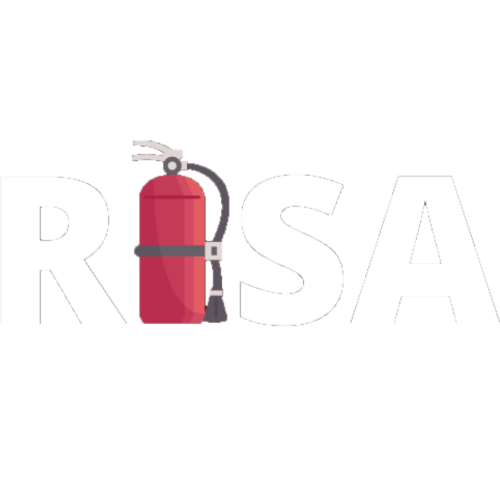
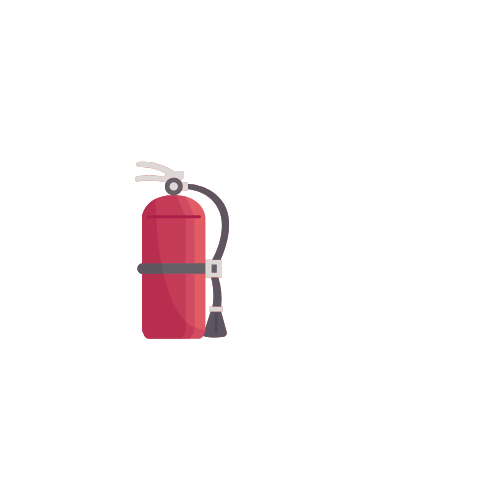
Primeiro Commit

diff --git a/pages/treinamentos.html b/pages/treinamentos.html
@@ -11,6 +11,7 @@
     <title>Treinamentos - Risa Engenharia</title>
 
     
+    <link rel="shortcut icon" href="assets/Risa-favicon.png" type="image/x-icon">
     <link rel="stylesheet" href="../fontawesome/css/all.css" />
     <link rel="stylesheet" href="../css/treinamento.css" />
     <link rel="stylesheet" href="../css/animacoes.css" />
@@ -124,7 +125,7 @@
                     <span></span>
                     <div class="card-header">
                         <picture>
-                            <img class="card-img" src="../assets/RISA.png" alt="header">
+                            <img class="card-img" src="../assets/Kit Emergencia.png" alt="Kit primeiro socorros">
                         </picture>
                     </div>
                     <div class="card-content">
@@ -145,7 +146,7 @@
                     <span></span>
                     <div class="card-header">
                         <picture>
-                            <img class="card-img" src="../assets/RISA.png" alt="header">
+                            <img class="card-img" src="../assets/DEA.png" alt="Desfibrilador externo automático">
                         </picture>
                     </div>
                     <div class="card-content">
@@ -166,7 +167,7 @@
                     <span></span>
                     <div class="card-header">
                         <picture>
-                            <img class="card-img" src="../assets/RISA.png" alt="header">
+                            <img class="card-img" src="../assets/Cipa Segurança.png" alt="Cipa Segurança">
                         </picture>
                     </div>
                     <div class="card-content">
@@ -190,7 +191,7 @@
                     <span></span>
                     <div class="card-header">
                         <picture>
-                            <img class="card-img" src="../assets/RISA.png" alt="header">
+                            <img class="card-img" src="../assets/EPI.png" alt="EPI">
                         </picture>
                     </div>
                     <div class="card-content">
@@ -212,7 +213,7 @@
                     <span></span>
                     <div class="card-header">
                         <picture>
-                            <img class="card-img" src="../assets/RISA.png" alt="header">
+                            <img class="card-img" src="../assets/Segurança em Eletricidade.png" alt="Segurança em Eletricidade">
                         </picture>
                     </div>
                     <div class="card-content">
@@ -234,7 +235,7 @@
                     <span></span>
                     <div class="card-header">
                         <picture>
-                            <img class="card-img" src="../assets/RISA.png" alt="header">
+                            <img class="card-img" src="../assets/Espaços Confinados.png" alt="Espaços Confinados">
                         </picture>
                     </div>
                     <div class="card-content">
@@ -257,7 +258,7 @@
                     <span></span>
                     <div class="card-header">
                         <picture>
-                            <img class="card-img" src="../assets/RISA.png" alt="header">
+                            <img class="card-img" src="../assets/Trabalho em Altura.png" alt="Trabalho em altura">
                         </picture>
                     </div>
                     <div class="card-content">

diff --git a/index.html b/index.html
@@ -10,6 +10,7 @@
     <meta name="robots" content="index, nofollow" />
     <title>Risa Engenharia</title>
 
+    <link rel="shortcut icon" href="assets/Risa-favicon.png" type="image/x-icon">
     <link rel="stylesheet" href="css/style.css" />
     <link rel="stylesheet" href="fontawesome/css/all.css" />
     <link rel="stylesheet" href="css/animacoes.css" />
@@ -25,7 +26,7 @@
     <nav id="navigation">
       <div class="wrapper">
         <a class="logo" href="index.html">
-          <img class="logo-inicio fadeDown animate" src="assets/RISA.png" alt="logo" width="70" height="70">
+          <img class="logo-inicio fadeDown animate" src="assets/Risa-logo.png" alt="logo Risa Engenharia" width="70" height="70">
         </a>
 
         <div class="menu">
@@ -86,7 +87,7 @@
     <section id="home">
       <div class="wrapper">
         <div class="wrapper-content zoomIn animate">
-            <img class="img-tela" src="assets/RISA.png" alt="Imagem inicial Risa Engenharia" width="100%" height="100%">
+            <img class="img-tela" src="assets/Risa.png" alt="Imagem inicial Risa Engenharia" width="100%" height="100%">
             <div class="sub-titulo">
               <div class="loader">
                 <h4>

diff --git a/pages/documentacoes.html b/pages/documentacoes.html
@@ -10,7 +10,9 @@
     <meta name="robots" content="index, nofollow" />
     <title>Documentações - Risa Engenharia</title>
 
+
     
+    <link rel="shortcut icon" href="assets/Risa-favicon.png" type="image/x-icon">
     <link rel="stylesheet" href="../fontawesome/css/all.css" />
     <link rel="stylesheet" href="../css/documentacoes.css" />
     <link rel="stylesheet" href="../css/animacoes.css" />
@@ -90,7 +92,7 @@
         <div class="wrapper-content zoomIn animate">
           <div class="card-content">
             <div class="card-header fadeLeft animate">
-              <img src="../assets/RISA.png" alt="teste">
+              <img src="../assets/Documentações.gif" alt="Documentações">
               <h2>Documentações</h2>
             </div>
             <div class="description fadeRight animate">

diff --git a/pages/consultoria.html b/pages/consultoria.html
@@ -10,6 +10,8 @@
     <meta name="robots" content="index, nofollow" />
     <title>Consultoria - Risa Engenharia</title>
 
+    
+    <link rel="shortcut icon" href="assets/Risa-favicon.png" type="image/x-icon">
     <link rel="stylesheet" href="../fontawesome/css/all.css" />
     <link rel="stylesheet" href="../css/consultoria.css" />
     <link rel="stylesheet" href="../css/animacoes.css" />
@@ -88,7 +90,7 @@
         <div class="wrapper-content zoomIn animate">
           <div class="card-content">
             <div class="card-header fadeLeft animate">
-              <img src="../assets/RISA.png" alt="teste">
+              <img src="../assets/Consultoria.gif" alt="Consultoria">
               <h2>Consultoria</h2>
             </div>
             <div class="description fadeRight animate">

diff --git a/pages/causa-social.html b/pages/causa-social.html
@@ -10,6 +10,9 @@
     <meta name="robots" content="index, nofollow" />
     <title>Causa-Social - Risa Engenharia</title>
  
+
+    
+    <link rel="shortcut icon" href="assets/Risa-favicon.png" type="image/x-icon">
     <link rel="stylesheet" href="../fontawesome/css/all.css" />
     <link rel="stylesheet" href="../css/causa-social.css" />
     <link rel="stylesheet" href="../css/animacoes.css" />

diff --git a/pages/adequacoes.html b/pages/adequacoes.html
@@ -10,7 +10,9 @@
     <meta name="robots" content="index, nofollow" />
     <title>Adequações - Risa Engenharia</title>
 
+
     
+    <link rel="shortcut icon" href="assets/Risa-favicon.png" type="image/x-icon">
     <link rel="stylesheet" href="../fontawesome/css/all.css" />
     <link rel="stylesheet" href="../css/adequacoes.css" />
     <link rel="stylesheet" href="../css/animacoes.css" />

diff --git a/pages/contato.html b/pages/contato.html
@@ -10,7 +10,9 @@
     <meta name="robots" content="index, nofollow" />
     <title>Contato - Risa Engenharia</title>
 
+
     
+    <link rel="shortcut icon" href="assets/Risa-favicon.png" type="image/x-icon">
     <link rel="stylesheet" href="../fontawesome/css/all.css" />
     <link rel="stylesheet" href="../css/contato.css" />
     <link rel="stylesheet" href="../css/animacoes.css" />

diff --git a/pages/historia.html b/pages/historia.html
@@ -10,6 +10,9 @@
     <meta name="robots" content="index, nofollow" />
     <title>Historia - Risa Engenharia</title>
  
+
+
+    <link rel="shortcut icon" href="assets/Risa-favicon.png" type="image/x-icon">
     <link rel="stylesheet" href="../fontawesome/css/all.css" />
     <link rel="stylesheet" href="../css/historia.css" />
     <link rel="stylesheet" href="../css/animacoes.css" />

diff --git a/css/style.css b/css/style.css
@@ -405,7 +405,7 @@ nav#navigation .menu ul li ul li {
     
     text-transform: uppercase;
 
-    margin-top: 19.2rem;
+    margin-top: 20.1rem;
   }
 
   /*=== NAVIGATION =================================*/
